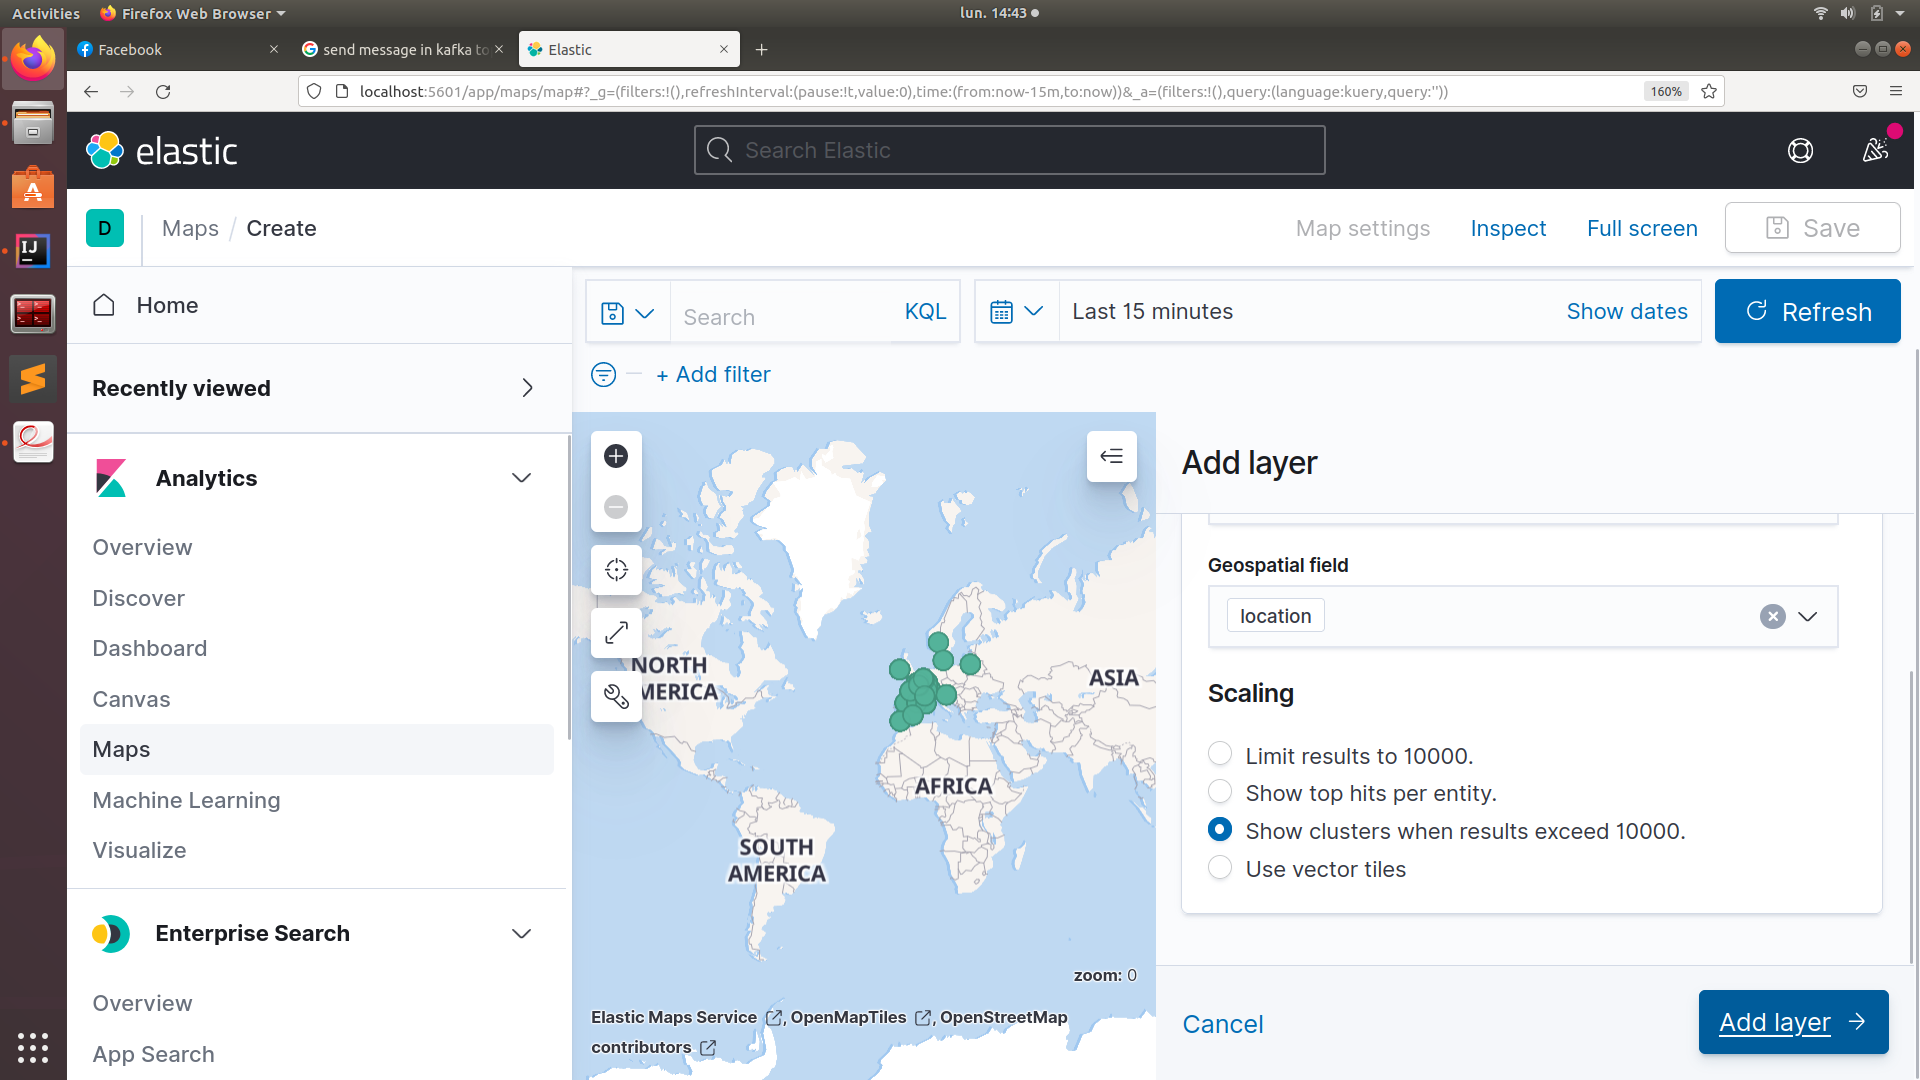
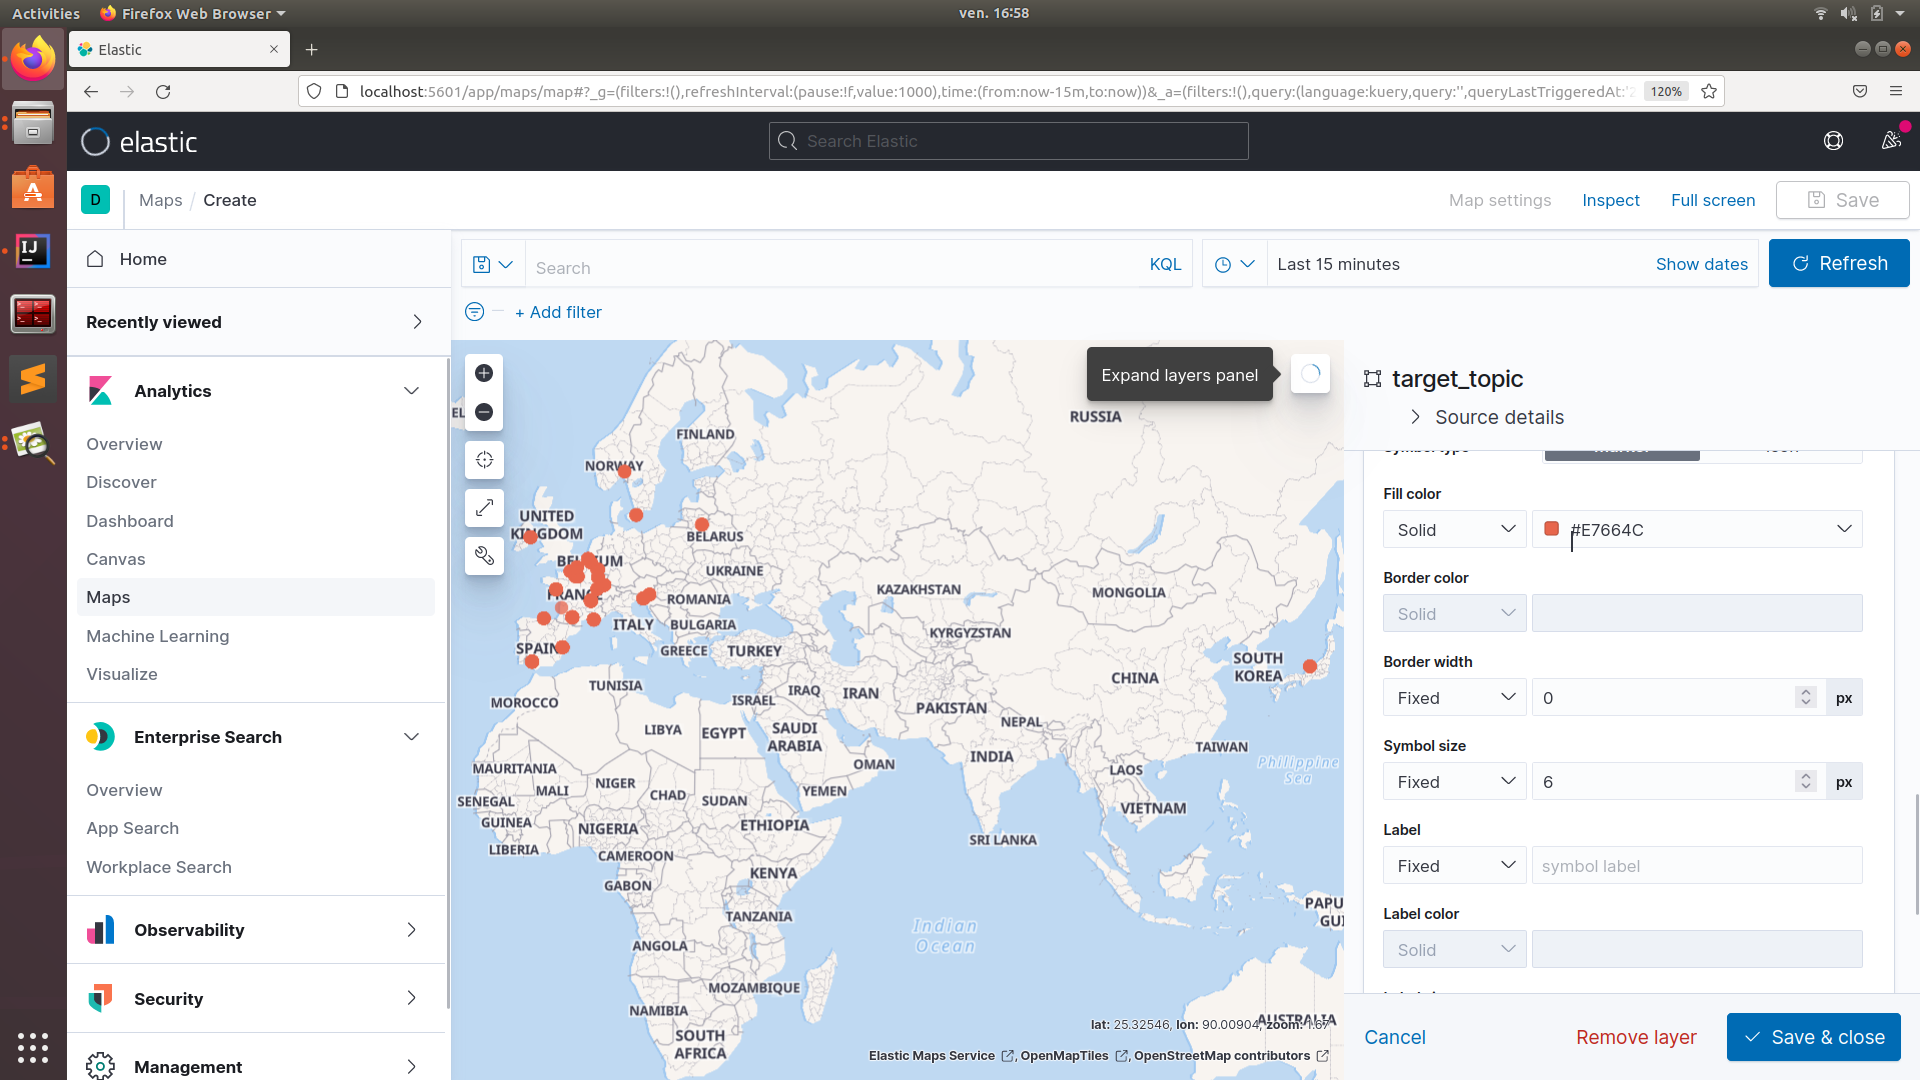
"add screen"

diff --git a/README.md b/README.md
@@ -1,19 +1,24 @@
 # kafka-elastic-spark
-# Central dashboard application
 
 ## discription :
 
-the project consists in visualizing the number of bikes available from the vilib api, for this you must have a key to have access to the on API:<br> https://developer.jcdecaux.com/#/home.
+the project consists in visualizing the number of bikes available from the vilib api, for this you must have a key to have access to the on API:<br> _https://developer.jcdecaux.com/#/home_.
+<br>
+<br>
 ![mon image](images/gr1.png)
 ## needed tools:
 1. Docker (and docker-compose)
 2. scala
 ## how to use :
 1. install services locally (zookeeper, kafka brocker, kafka-connect, schema-registry, elasticsearch, kibana):
-<br> docker-compose up -d
+   <br> docker-compose up -d
 2. if you want to see fastly the changes in kibana lanch the script main_producer_simulated_data,
 3. if you want to see the real changes data in kibana lanch the script main_producer_real
 ## results:
-the index is now saved on elasticsearch with real-time update.
+the index named **target_topic** is now saved on elasticsearch with real-time update.
 interacting with the index with kibana and making the desired graphics in real time,
-example of graph: above two screenshots of vilib stations on a map, between two instants
+example of graph: above two screenshots of vilib stations on a map, between two instants: <br>
+### instant T1:<br>
+![mon image](images/grT1.png)
+### instant T2:<br>
+![mon image](images/grT2.png)
